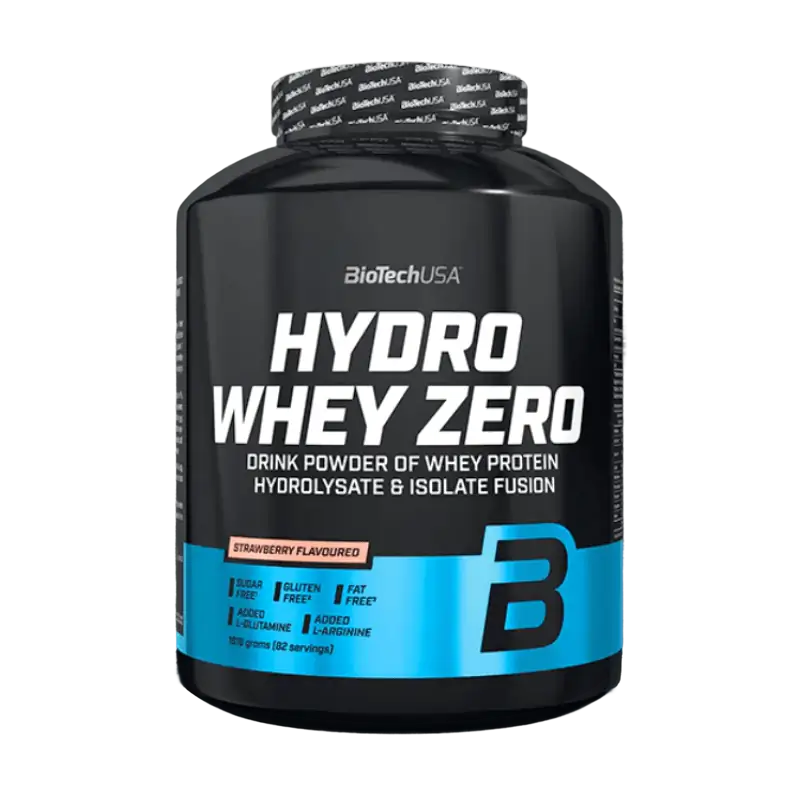
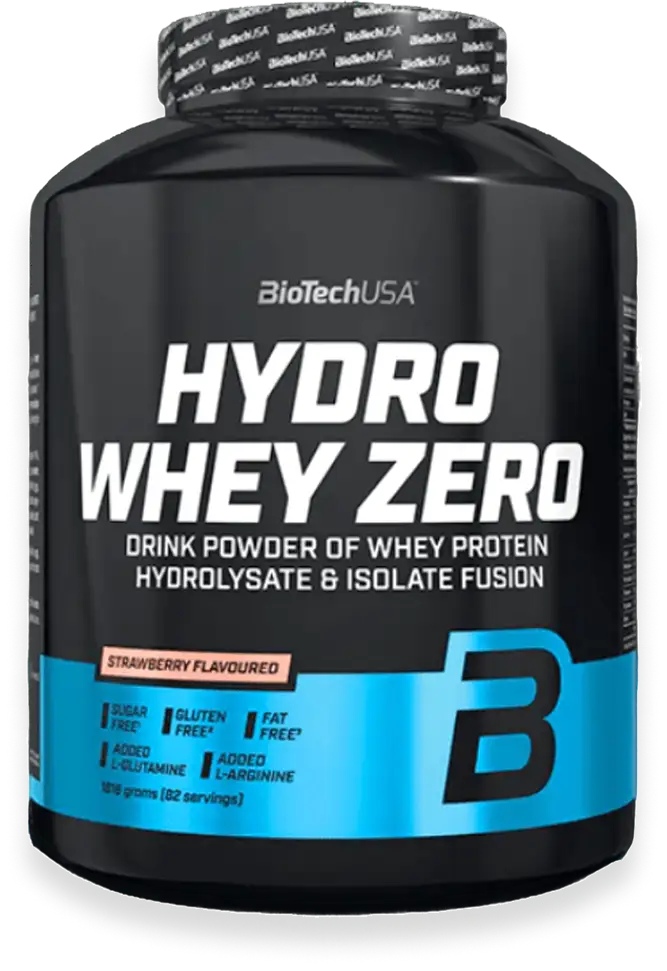
v3

diff --git a/index.html b/index.html
@@ -10,8 +10,8 @@
   <header class="hero" id="top">
     <div class="hero__inner container">
       <p class="hero__eyebrow">Powermax Vitamin Shop · Ireland</p>
-      <h1 class="hero__title">Pure Protein <span>Selected by Peter</span></h1>
-      <p class="hero__subtitle">Premium BioTech protein, hand-picked by Peter - founder and athlete. Shipped from Ireland 🇮🇪.</p>
+      <h1 class="hero__title">BioTech Protein <span>Selected by Peter</span></h1>
+      <p class="hero__subtitle">Premium BioTech protein, hand-picked by Peter - founder and athlete. <br> <br> Shipped from Ireland 🇮🇪</p>
       <div class="hero__actions">
         <a class="btn btn--primary" href="https://powermaxvitaminshop.ie/?s=biotech&post_type=product" target="_blank">Shop Now</a>
         <a class="btn btn--ghost" href="#founder">Peter's Story</a>
@@ -70,13 +70,13 @@
         <div class="featured-card">
           <div class="featured-card__content">
             <p class="section__eyebrow section__eyebrow--left">Featured</p>
-            <h3>Hydro Whey Zero</h3>
-            <p>Hydrolysate and isolate fusion. Faster absorption, zero compromise.</p>
+            <h3>Iso Whey Zero</h3>
+            <p>A lean isolate protein powder built for cleaner recovery and muscle support.</p>
             <div class="price-row">
-              <strong>€89.99</strong>
-              <span>€95.00</span>
+              <strong>€69.99</strong>
+              <span>€78.99</span>
             </div>
-            <a class="btn btn--dark" href="https://powermaxvitaminshop.ie/product/biotech-hydrolysed-isolate-whey-protein-zero-1816g/" target="_blank" rel="noopener noreferrer">Buy now</a>
+            <a class="btn btn--dark" href="https://powermaxvitaminshop.ie/product/biotech-isolate-whey-protein-zero-1816g/" target="_blank" rel="noopener noreferrer">Buy now</a>
           </div>
           <div class="featured-video" id="videoFeature" role="button" tabindex="0" aria-label="Toggle Why BioTech video playback">
             <video id="whyVideo" class="featured-video__media" poster="img/video-poster.webp" preload="metadata" playsinline>
@@ -86,7 +86,7 @@
             <button class="featured-video__play" id="videoPlayButton" type="button" aria-label="Play or pause Why BioTech video">▶</button>
             <button class="featured-video__mute" id="muteButton" type="button" aria-pressed="false" aria-label="Mute video">Sound: On</button>
           </div>
-          <img src="img/featured-product.webp" alt="Hydro Whey Zero product" class="featured-card__product">
+          <img src="img/iso-whey-zero.webp" alt="Iso Whey Zero product" class="featured-card__product">
         </div>
       </div>
     </section>
@@ -99,37 +99,37 @@
 
         <div class="product-grid">
           <article class="product-card">
-            <div class="product-card__visual"><img src="img/iso-whey-zero.webp" alt="Isolate Whey Protein Zero 1816g Strawberry"></div>
+            <div class="product-card__visual"><img src="img/iso-whey-zero.webp" alt="Isolate Whey Protein Zero 1816g Strawberry" class="product-card__img--iso-whey product-card__img--sale-shadow"></div>
             <p class="product-card__brand">BioTech</p>
             <h3>Isolate Whey Protein Zero</h3>
-            <p>1816g · Strawberry</p>
+            <p>1816g · Multiple flavours</p>
             <div class="price-row"><strong>€69.99</strong><span>€78.99</span></div>
             <a class="btn btn--dark" href="https://powermaxvitaminshop.ie/product/biotech-isolate-whey-protein-zero-1816g/" target="_blank" rel="noopener noreferrer">Buy now</a>
           </article>
 
           <article class="product-card">
-            <div class="product-card__visual"><img src="img/featured-product.webp" alt="BioTech Hydrolysed Isolate Whey Protein Zero 1816g"></div>
+            <div class="product-card__visual"><img src="img/hydro-whey-zero.webp" alt="BioTech Hydrolysed Isolate Whey Protein Zero 1816g" class="product-card__img--sale-shadow"></div>
             <p class="product-card__brand">BioTech</p>
             <h3>Hydrolysed Isolate Whey Protein Zero</h3>
-            <p>1816g · Strawberry</p>
+            <p>1816g · Multiple flavours</p>
             <div class="price-row"><strong>€89.99</strong><span>€95.00</span></div>
             <a class="btn btn--dark" href="https://powermaxvitaminshop.ie/product/biotech-hydrolysed-isolate-whey-protein-zero-1816g/" target="_blank" rel="noopener noreferrer">Buy now</a>
           </article>
 
           <article class="product-card">
-            <div class="product-card__visual"><img src="img/iso-caramel.webp" alt="Iso Whey Zero 1816g Lemon Cheesecake"></div>
+            <div class="product-card__visual"><img src="img/iso-caramel.webp" alt="Iso Whey Zero 1816g Caramel" class="product-card__img--sale-shadow"></div>
             <p class="product-card__brand">BioTech</p>
-            <h3>Iso Whey Zero</h3>
-            <p>1816g · Lemon Cheesecake</p>
+            <h3>Isolate Whey Protein Zero</h3>
+            <p>1816g · Caramel</p>
             <div class="price-row"><strong>€69.99</strong><span>€78.99</span></div>
             <a class="btn btn--dark" href="https://powermaxvitaminshop.ie/product/biotech-isolate-whey-protein-zero-1816g/" target="_blank" rel="noopener noreferrer">Buy now</a>
           </article>
 
           <article class="product-card">
-            <div class="product-card__visual"><img src="img/iso-banana.webp" alt="Iso Whey Zero 454g Banana"></div>
+            <div class="product-card__visual"><img src="img/iso-banana.webp" alt="Iso Whey Zero 454g Banana" class="product-card__img--sale-shadow"></div>
             <p class="product-card__brand">BioTech</p>
-            <h3>Iso Whey Zero</h3>
-            <p>454g · Banana</p>
+            <h3>Isolate Whey Protein Zero</h3>
+            <p>454g · Multiple flavours</p>
             <div class="price-row"><strong>€21.00</strong><span>€26.00</span></div>
             <a class="btn btn--dark" href="https://powermaxvitaminshop.ie/product/biotech-isolate-whey-zero-protein-454g/" target="_blank" rel="noopener noreferrer">Buy now</a>
           </article>
@@ -142,11 +142,15 @@
     <div class="container footer__inner">
       <p>© 2026 Powermax Vitamin Shop · Ireland</p>
       <img src="img/powermax-logo.webp" alt="Powermax logo" class="footer__logo">
-      <p>Contact · Privacy Policy · Shipping & returns</p>
+      <p><a href="https://powermaxvitaminshop.ie/shipping/" target="_blank" rel="noopener noreferrer">Shipping</a> · <a href="https://powermaxvitaminshop.ie/contact/" target="_blank" rel="noopener noreferrer">Contact</a> · <a href="https://powermaxvitaminshop.ie/privacy-policy/" target="_blank" rel="noopener noreferrer">Privacy Policy</a></p>
     </div>
     <div class="footer__socials" aria-label="Social media">
-      <img src="img/instagram-icon.webp" alt="Instagram">
-      <img src="img/facebook-icon.webp" alt="Facebook">
+      <a href="https://www.facebook.com/hiproproducts" target="_blank" rel="noopener noreferrer" aria-label="Facebook">
+        <img src="img/instagram-icon.webp" alt="Facebook">
+      </a>
+      <a href="https://www.instagram.com/powermaxvitaminshop/" target="_blank" rel="noopener noreferrer" aria-label="Instagram">
+        <img src="img/facebook-icon.webp" alt="Instagram">
+      </a>
     </div>
   </footer>
 

diff --git a/styles.css b/styles.css
@@ -42,7 +42,7 @@ img {
   min-height: 920px;
   background: radial-gradient(ellipse at 50% 100%, #d40924 0%, #8f0412 35%, #4b0000 70%, #210000 100%);
   color: #fff;
-  padding: 5.75rem 0 2.5rem;
+  padding: 5.75rem 0 5.75rem;
 }
 
 .hero__inner {
@@ -133,13 +133,19 @@ img {
 }
 
 .hero__products img {
-  filter: drop-shadow(0 24px 25px rgba(0, 0, 0, 0.22));
+  filter: drop-shadow(0 26px 28px rgba(0, 0, 0, 0.3)) drop-shadow(0 0 16px rgba(0, 0, 0, 0.18));
   width: 100%;
   object-fit: contain;
 }
 
+.hero__products img:not(.hero__main-product) {
+  filter: drop-shadow(0 30px 34px rgba(0, 0, 0, 0.36)) drop-shadow(0 0 22px rgba(0, 0, 0, 0.22));
+}
+
 .hero__main-product {
-  transform: translateY(60px) scale(1.2);
+  width: min(360px, 100%);
+  max-height: 300px;
+  transform: translateY(52px) scale(1.06);
   transform-origin: center bottom;
 }
 
@@ -434,6 +440,10 @@ img {
 
 .featured-card__product {
   justify-self: end;
+  width: min(100%, 420px);
+  max-height: 300px;
+  object-fit: contain;
+  filter: drop-shadow(0 26px 28px rgba(0, 0, 0, 0.3)) drop-shadow(0 0 16px rgba(0, 0, 0, 0.18));
 }
 
 .featured-card .btn {
@@ -482,7 +492,9 @@ img {
 }
 
 .product-card__visual {
-  background: radial-gradient(ellipse at 50% 30%, #f6f9fc 0%, #e2e5e8 70%);
+  background:
+    radial-gradient(120% 70% at 50% -10%, rgba(255, 255, 255, 0.28) 0%, rgba(255, 255, 255, 0) 55%),
+    radial-gradient(120% 95% at 50% 110%, #ff5f66 0%, #d3182a 38%, #930a17 68%, #4b0005 100%);
   display: grid;
   place-items: center;
   min-height: 250px;
@@ -494,6 +506,15 @@ img {
   max-height: 220px;
   height: auto;
   object-fit: contain;
+}
+
+.product-card__visual .product-card__img--sale-shadow {
+  filter: drop-shadow(0 12px 10px rgba(0, 0, 0, 0.42)) drop-shadow(0 18px 12px rgba(0, 0, 0, 0.28));
+}
+
+.product-card__visual .product-card__img--iso-whey {
+  width: min(205px, 100%);
+  max-height: 200px;
 }
 
 .product-card__brand,
@@ -543,6 +564,27 @@ img {
   margin-top: 0.72rem;
 }
 
+.product-card .btn--dark {
+  background: linear-gradient(180deg, #171b21 0%, #090b0f 100%);
+  border: 1px solid rgba(255, 255, 255, 0.1);
+  color: #ffffff;
+  min-height: 42px;
+  font-weight: 600;
+  box-shadow: inset 0 1px 0 rgba(255, 255, 255, 0.12), 0 8px 12px -12px rgba(0, 0, 0, 0.6);
+  transition: transform 140ms ease, box-shadow 140ms ease, filter 140ms ease;
+}
+
+.product-card .btn--dark:hover {
+  transform: translateY(-1px);
+  box-shadow: inset 0 1px 0 rgba(255, 255, 255, 0.16), 0 10px 14px -12px rgba(0, 0, 0, 0.68);
+  filter: brightness(1.03);
+}
+
+.product-card .btn--dark:active {
+  transform: translateY(0);
+  box-shadow: inset 0 1px 0 rgba(255, 255, 255, 0.1), 0 5px 8px -10px rgba(0, 0, 0, 0.5);
+}
+
 .footer {
   padding: 1.8rem 0 2.7rem;
   background: #fefefe;
@@ -563,6 +605,15 @@ img {
 
 .footer__inner p:last-child {
   text-align: right;
+}
+
+.footer__inner a {
+  color: inherit;
+  text-decoration: none;
+}
+
+.footer__inner a:hover {
+  text-decoration: underline;
 }
 
 .footer__logo {
@@ -672,6 +723,10 @@ img {
   .footer__inner p:last-child {
     text-align: center;
   }
+
+  .footer__logo {
+    justify-self: center;
+  }
 }
 
 @media (max-width: 700px) {
@@ -682,7 +737,7 @@ img {
   .hero {
     min-height: auto;
     padding-top: 3.75rem;
-    padding-bottom: 2rem;
+    padding-bottom: 3.75rem;
   }
 
   .hero__subtitle {
@@ -786,6 +841,7 @@ img {
 @media (max-width: 480px) {
   .hero {
     padding-top: 3.35rem;
+    padding-bottom: 3.35rem;
   }
 
   .hero__eyebrow {
